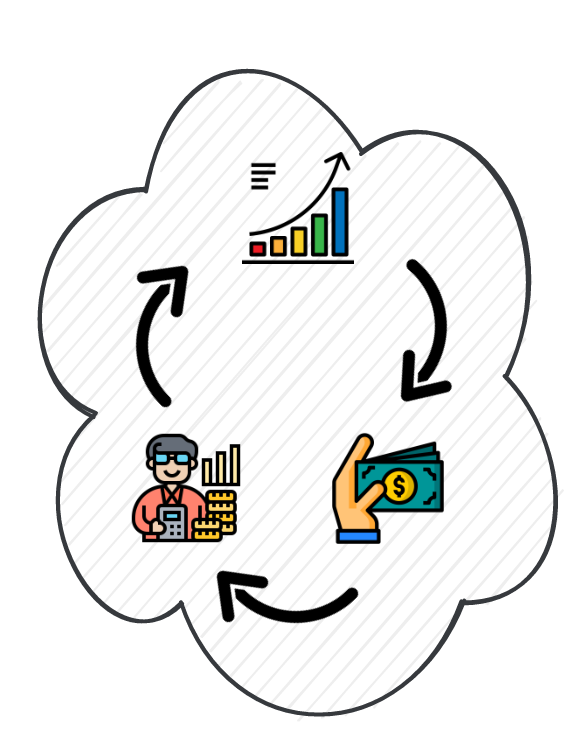
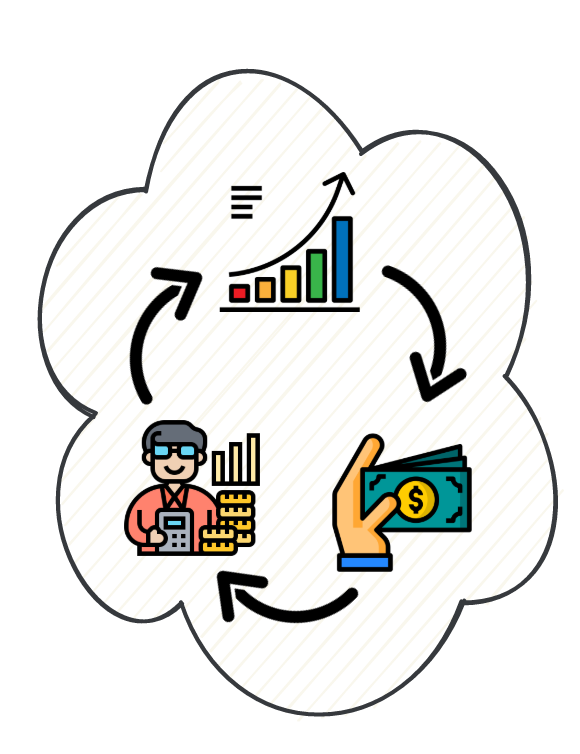
Website.

Changed region(s): [[0.2172, 0.183, 0.6207, 0.7626], [0.5586, 0.5491, 0.8379, 0.7626], [0.6517, 0.3355, 0.8069, 0.5491]]

diff --git a/website2/css/style.css b/website2/css/style.css
@@ -68,18 +68,18 @@ body {
 }
 
 .challenges {
-	width: 400px;
-	height: 450px;
+	width: 300px;
+	height: 350px;
 } 
 
 .growth {
-	width: 400px;
-	height: 500px;
+	width: 300px;
+	height: 400px;
 } 
 
 .insights {
-	width: 650px;
-	height: 300px;
+	width: 500px;
+	height: 250px;
 }
 
 #presentation .section-row {
@@ -91,4 +91,21 @@ body {
 	height: 3px;
 	background: #1e90ff;
 	margin: 20px auto;
+}
+
+@media screen and (max-width: 700px) {
+	.challenges {
+		width: 200px;
+		height: 250px;
+	}
+
+	.growth {
+		width: 200px;
+		height: 300px;
+	}
+
+	.insights {
+		width: 400px;
+		height: 200px;
+	}
 }

diff --git a/website2/index.html b/website2/index.html
@@ -35,16 +35,16 @@
  		    </div>
 
  		    <div class="section-row">
+ 		        <div class="section-col">
+		 		    <img class="growth" src="img/growth.png" alt="Crescimento">
+ 		        </div>
+
  				<div class="section-col">
 		 			<h2>Alavancagem de negócios</h2>
 		 			<div class="border"></div>
 		 			<p>
 		 			   Concentração de esforços em produtos e serviços que promovam os negócios dos clientes.
 		 		    </p>
- 		        </div>
-
- 		        <div class="section-col">
-		 		    <img class="growth" src="img/growth.png" alt="Crescimento">
  		        </div>
  		    </div>
 
